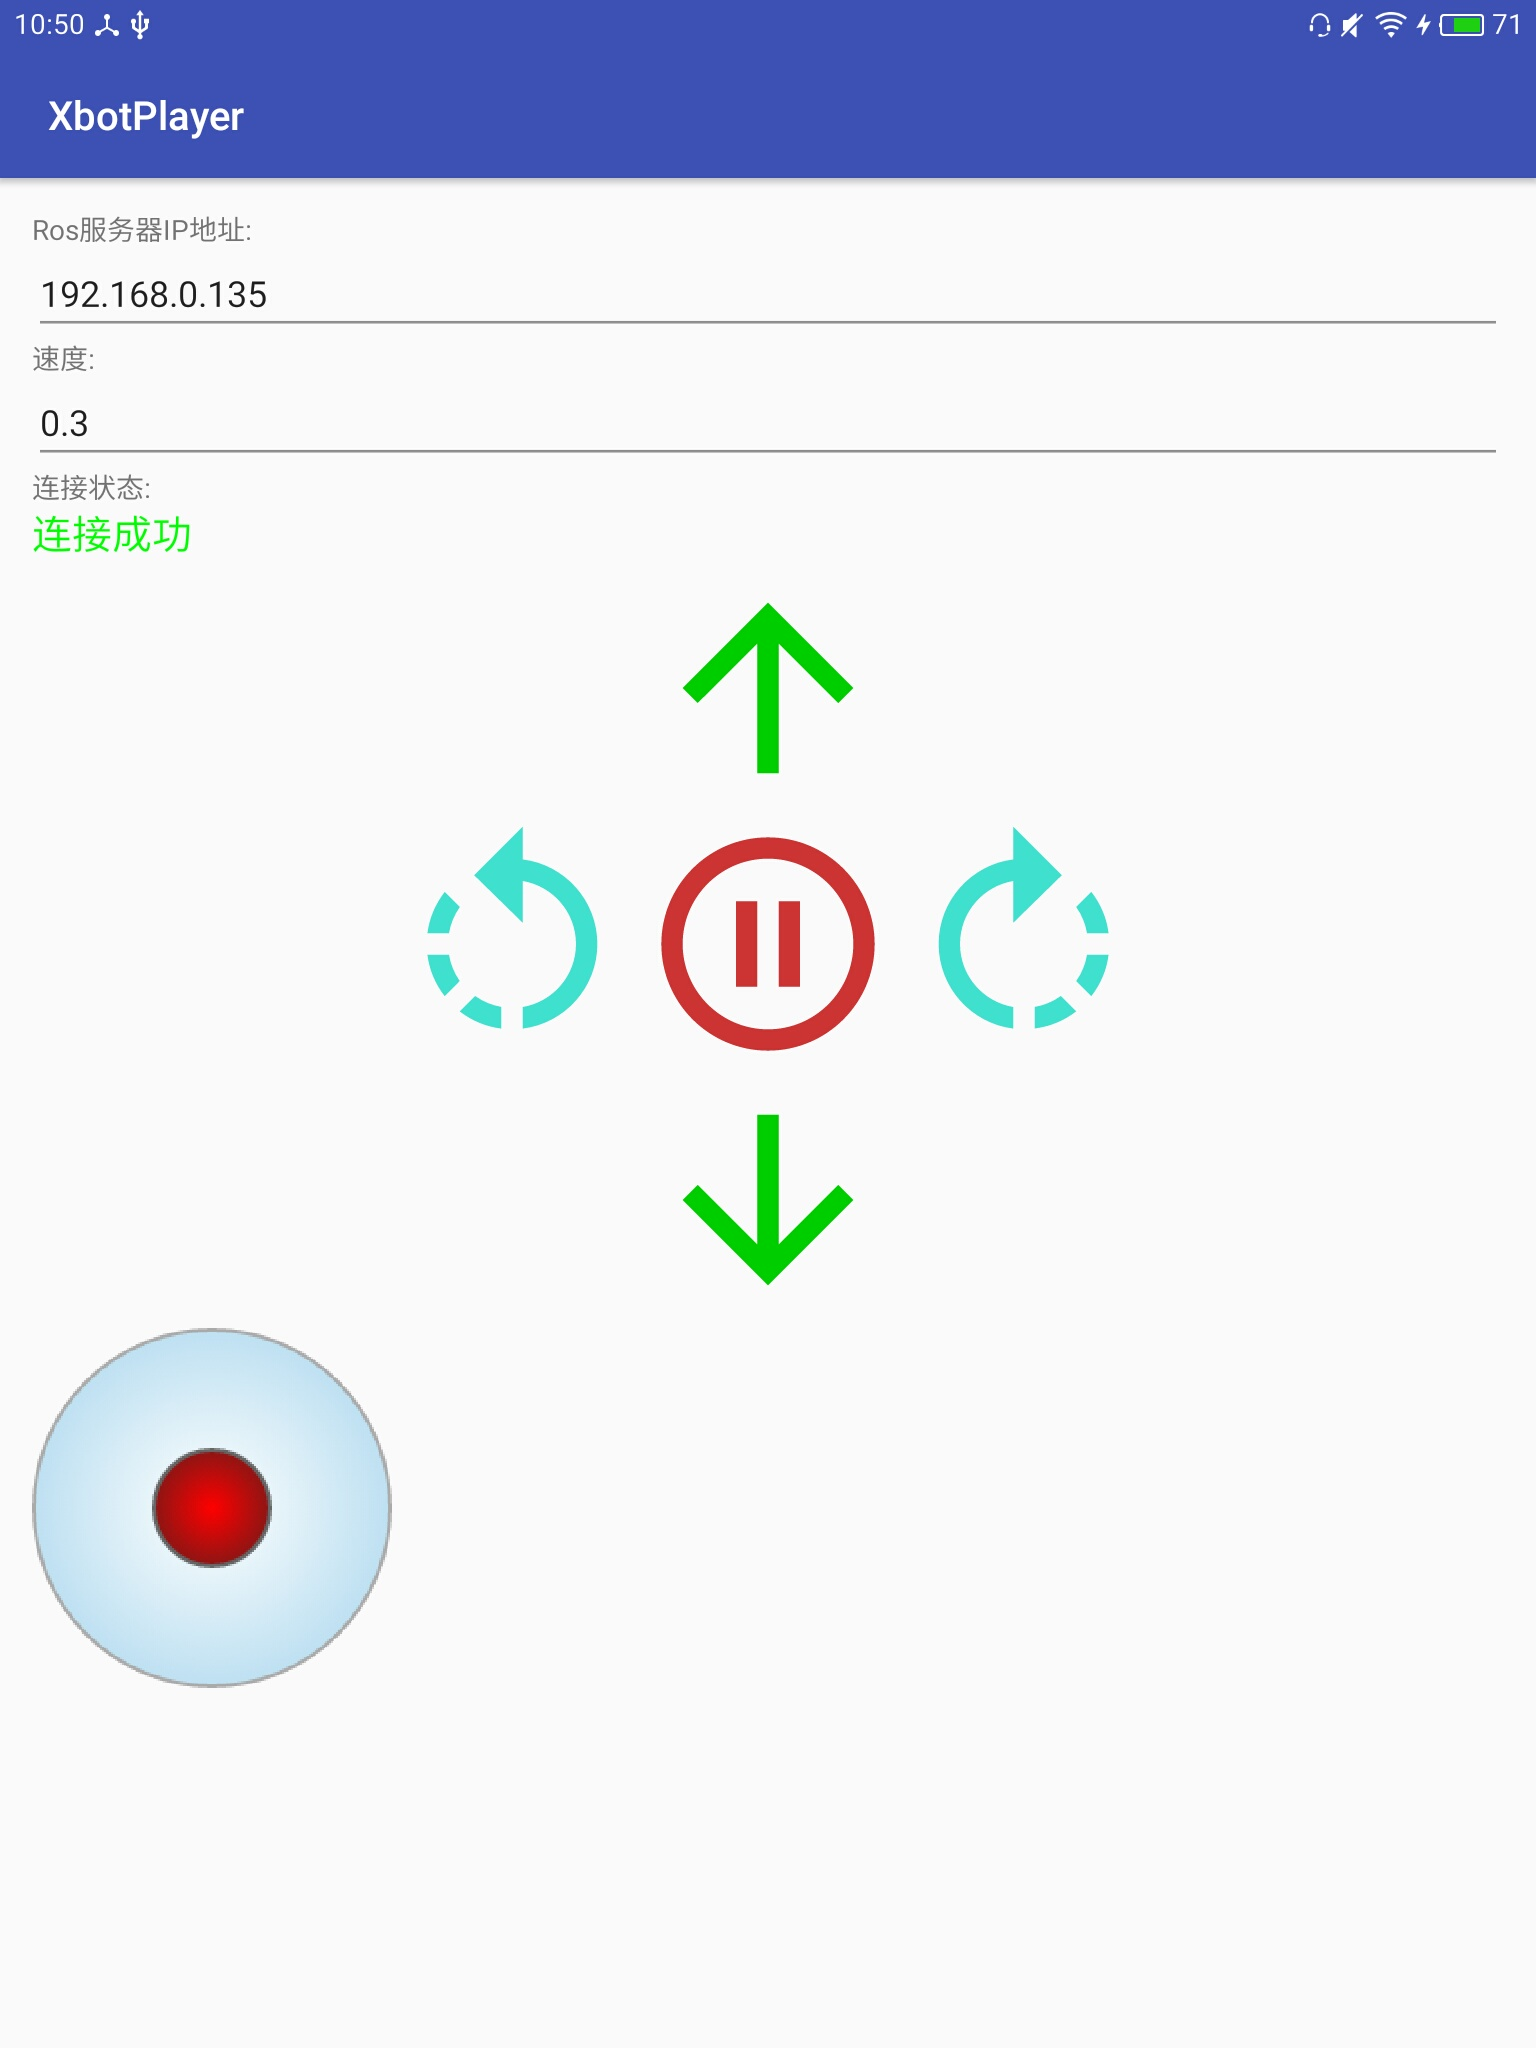
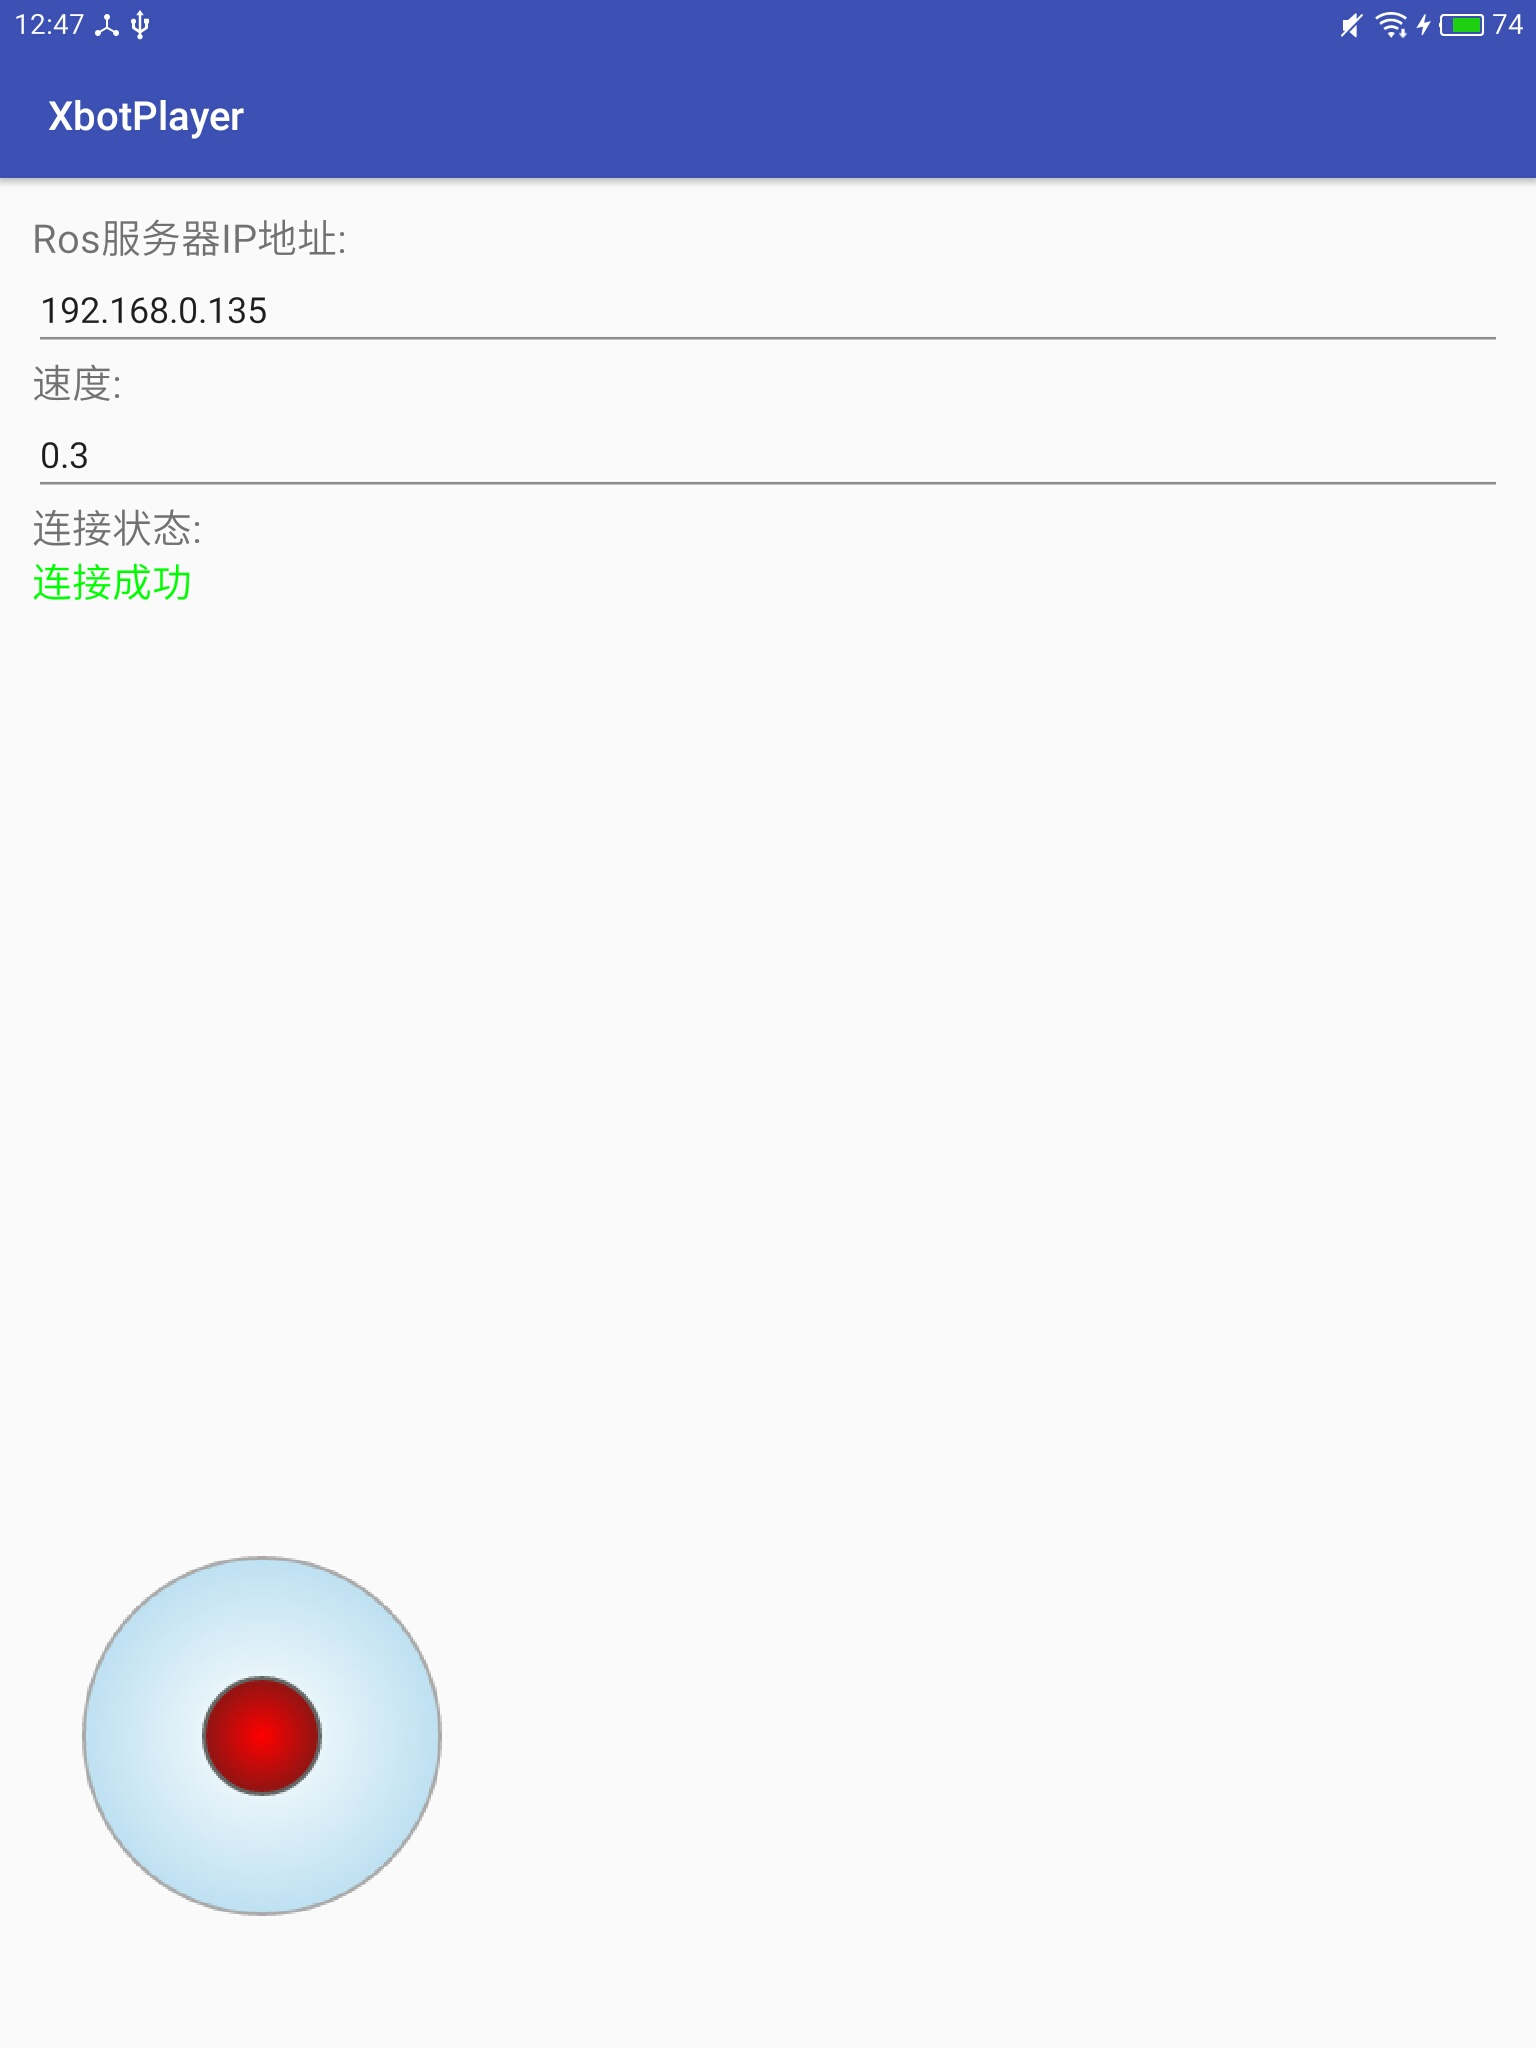
删除了键位控制，采用摇杆控制模式

diff --git a/app/src/main/java/cn/iscas/xlab/xbotplayer/mvp/ControlFragment.java b/app/src/main/java/cn/iscas/xlab/xbotplayer/mvp/ControlFragment.java
@@ -11,11 +11,9 @@ import android.text.Editable;
 import android.text.TextWatcher;
 import android.util.Log;
 import android.view.LayoutInflater;
-import android.view.MotionEvent;
 import android.view.View;
 import android.view.ViewGroup;
 import android.widget.EditText;
-import android.widget.ImageButton;
 import android.widget.TextView;
 import android.widget.Toast;
 
@@ -37,7 +35,7 @@ import static cn.iscas.xlab.xbotplayer.mvp.ControlContract.ROS_RECEIVER_INTENTFI
  * Created by lisongting on 2017/9/27.
  */
 
-public class ControlFragment extends Fragment implements ControlContract.View,View.OnTouchListener{
+public class ControlFragment extends Fragment implements ControlContract.View{
 
 
     public static final String TAG = "ControlFragment";
@@ -51,12 +49,7 @@ public class ControlFragment extends Fragment implements ControlContract.View,Vi
     private float speed ;
     private boolean isRosServerConnected = false;
     private Timer timer;
-    private ImageButton bt_up;
-    private ImageButton bt_down;
-    private ImageButton bt_rotate_left;
-    private ImageButton bt_rotate_right;
-    private ImageButton bt_stop;
-    private volatile boolean isControlling = false;
+
     private RockerView rockerView;
     private volatile Twist rockerTwist;
 
@@ -71,13 +64,6 @@ public class ControlFragment extends Fragment implements ControlContract.View,Vi
         speedEditText = (EditText) view.findViewById(R.id.et_speed);
         connectionState = (TextView) view.findViewById(R.id.et_state);
         rockerView = (RockerView) view.findViewById(R.id.rocker_view);
-
-        bt_up = (ImageButton) view.findViewById(R.id.image_button_up);
-        bt_down = (ImageButton) view.findViewById(R.id.image_button_down);
-        bt_stop= (ImageButton) view.findViewById(R.id.image_button_stop);
-        bt_rotate_left= (ImageButton) view.findViewById(R.id.image_button_rotate_left);
-        bt_rotate_right = (ImageButton) view.findViewById(R.id.image_button_rotate_right);
-        
 
         initView();
         return view;
@@ -106,13 +92,6 @@ public class ControlFragment extends Fragment implements ControlContract.View,Vi
             }
         });
 
-        bt_up.setOnTouchListener(this);
-        bt_down.setOnTouchListener(this);
-        bt_rotate_left.setOnTouchListener(this);
-        bt_rotate_right.setOnTouchListener(this);
-        bt_stop.setOnTouchListener(this);
-
-
         rockerView.setOnDirectionChangeListener(new RockerView.OnDirectionChangeListener() {
             @Override
             public void onStart() {
@@ -131,10 +110,14 @@ public class ControlFragment extends Fragment implements ControlContract.View,Vi
                         rockerTwist = new Twist(-speed, 0F, 0F, 0F, 0F, 0F);
                         break;
                     case DIRECTION_LEFT:
+                        rockerTwist = new Twist(0F, 0F, 0F, 0F, 0F, speed*3F);
+                        break;
                     case DIRECTION_UP_LEFT:
                         rockerTwist = new Twist(speed, 0F, 0F, 0F, 0F, speed*3F);
                         break;
                     case DIRECTION_RIGHT:
+                        rockerTwist = new Twist(0F, 0F, 0F, 0F, 0F, -speed*3F);
+                        break;
                     case DIRECTION_UP_RIGHT:
                         rockerTwist = new Twist(speed, 0F, 0F, 0F, 0F, -speed*3F);
                         break;
@@ -169,45 +152,6 @@ public class ControlFragment extends Fragment implements ControlContract.View,Vi
         
     }
 
-    @Override
-    public boolean onTouch(View v, MotionEvent event) {
-        speed = Float.parseFloat(speedEditText.getEditableText().toString());
-        Twist twist;
-        if (event.getAction() == MotionEvent.ACTION_DOWN) {
-            switch (v.getId()) {
-                case R.id.image_button_up:
-                    twist = new Twist(speed, 0F, 0F, 0F, 0F, 0F);
-                    startTimerTask(twist,200);
-                    break;
-                case R.id.image_button_down:
-                    twist = new Twist(-speed, 0F, 0F, 0F, 0F, 0F);
-                    startTimerTask(twist,200);
-                    break;
-                case R.id.image_button_rotate_left:
-                    twist = new Twist(0F, 0F, 0F, 0F, 0F, speed*3F);
-                    startTimerTask(twist,600);
-                    break;
-                case R.id.image_button_rotate_right:
-                    twist = new Twist(0F, 0F, 0F, 0F, 0F, -speed*3F);
-                    startTimerTask(twist,600);
-                    break;
-                case R.id.image_button_stop:
-                    twist = new Twist(0F, 0F, 0F, 0F, 0F, 0F);
-                    startTimerTask(twist,200);
-                    break;
-                default:
-                    break;
-
-            }
-            isControlling = true;
-
-        } else if (event.getAction() == MotionEvent.ACTION_UP) {
-            cancelTimerTask();
-            isControlling = false;
-        }
-
-        return false;
-    }
     private void initBroadcastReceiver() {
         receiver = new RosConnectionReceiver(new RosConnectionReceiver.RosCallback() {
             @Override
@@ -259,21 +203,6 @@ public class ControlFragment extends Fragment implements ControlContract.View,Vi
                 presenter.publishCommand(rockerTwist);
             }
         },0,200);
-    }
-
-
-    public synchronized  void  startTimerTask(final Twist twist,int frequency) {
-        if (isControlling) {
-            return;
-        }
-        timer = new Timer();
-        timer.schedule(new TimerTask() {
-            @Override
-            public void run() {
-                Log.v(TAG, "Publish Task is running ");
-                presenter.publishCommand(twist);
-            }
-        },0,frequency);
     }
 
     public synchronized void cancelTimerTask() {

diff --git a/README.md b/README.md
@@ -1,11 +1,6 @@
 # Xbot Player   
 
-XbotPlayer is an Android application which can control the movement of  [Xbot Robot](http://robots.ros.org/xbot/) .
-
-There are two kinds of control mode :
-
-* Key Panel Mode
-* Rocker Mode
+XbotPlayer is an Android application which can control the movement of  [Xbot Robot](http://robots.ros.org/xbot/) . 
 
 ScreeenShot:
 
